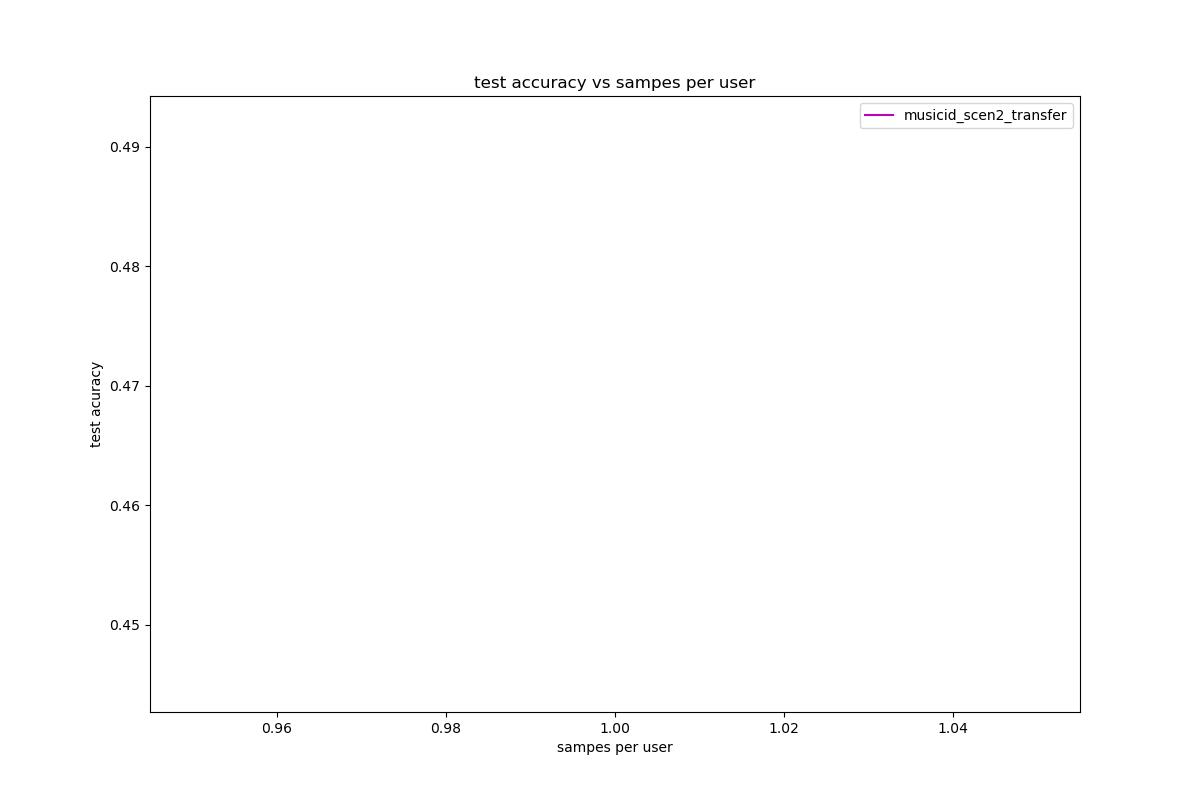
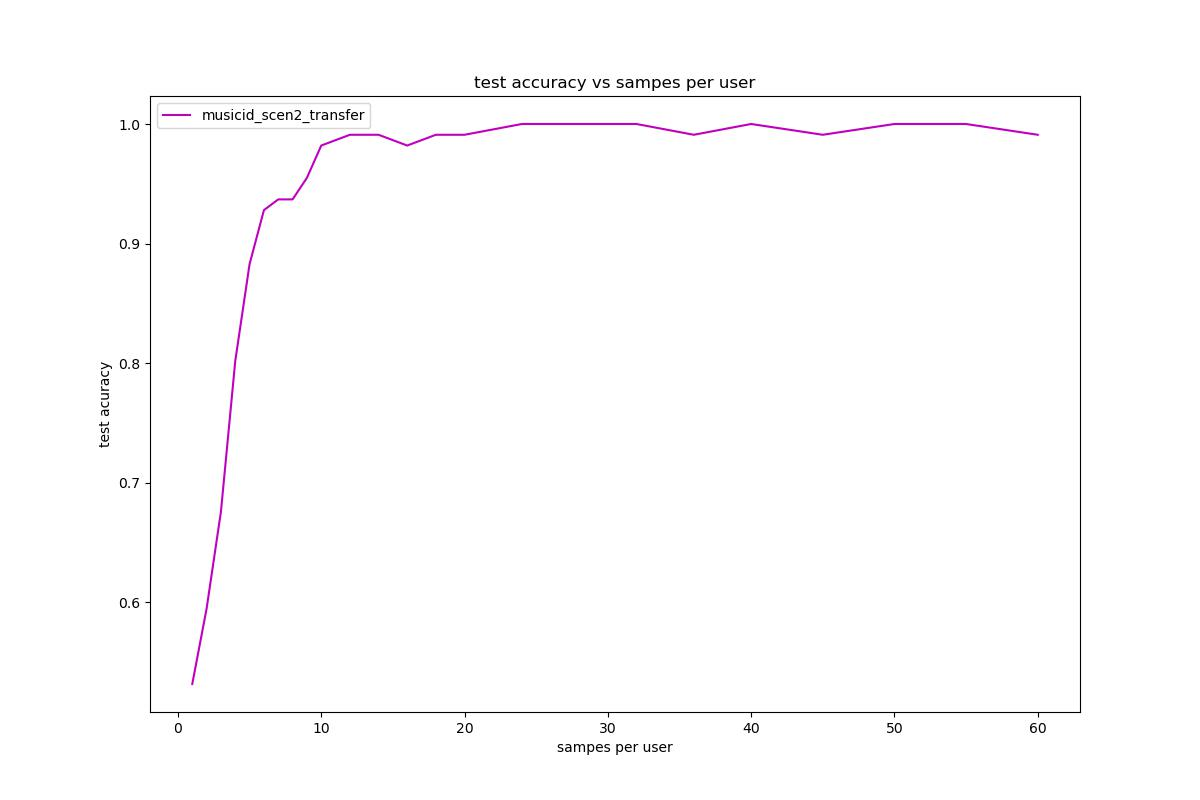
scen 2 working now

diff --git a/experiments/MusicID/scen.2/transfer/trainers.py b/experiments/MusicID/scen.2/transfer/trainers.py
@@ -62,6 +62,8 @@ def trainer(samples_per_user, fet_extrct, ft):
   #resnettssd.trainable = False
   inputs = Input(shape=(frame_size, x_train.shape[-1]))
   x = fet_extrct(inputs, training=False)
+  x = Dense(256, activation='relu')(x)
+  x = Dense(64, activation='relu')(x)
   outputs = Dense(num_classes, activation='softmax')(x)
   resnettssd = Model(inputs, outputs)
   #resnettssd.summary()

diff --git a/experiments/MusicID/scen.2/transfer/pre_trainers.py b/experiments/MusicID/scen.2/transfer/pre_trainers.py
@@ -80,7 +80,7 @@ def pre_trainer(samples_per_user):
   print('kappa score: ',result.numpy())
   
   resnettssd = tf.keras.Model(
-            resnettssd.input, resnettssd.layers[-2].output
+            resnettssd.input, resnettssd.layers[-5].output
         )
   #resnettssd.summary()
   
